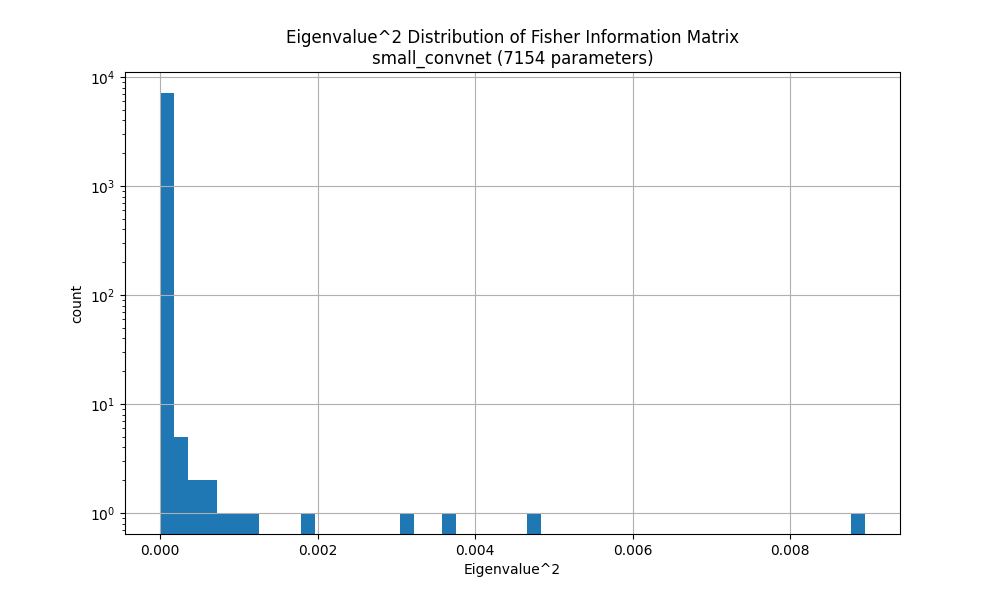
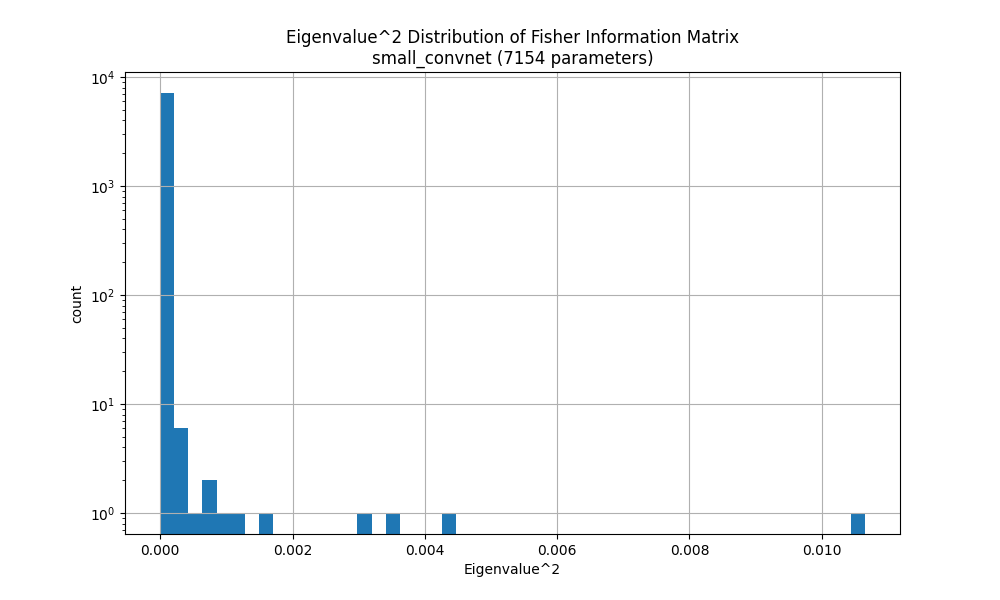
added random labels training. fixed negative eigenvalues bug.

diff --git a/model_interpretation/compare_eigenvalues.py b/model_interpretation/compare_eigenvalues.py
@@ -79,6 +79,9 @@ def compare_eigenvalue_distributions(models, save_dir=None):
     for model_name in models:
         try:
             eigenvalues, num_params = load_eigenvalues(model_name)
+            eigenvalues = np.abs(eigenvalues)
+            eigenvalues.sort()
+            eigenvalues = eigenvalues[::-1]  # Descending order
             all_eigenvalues.append(eigenvalues)
             all_param_counts.append(num_params)
             print(f"Loaded {len(eigenvalues)} eigenvalues for {model_name}")
@@ -89,32 +92,11 @@ def compare_eigenvalue_distributions(models, save_dir=None):
         print("No eigenvalues loaded. Exiting.")
         return
     
-    # Create plots comparing eigenvalues
-    
-    # 1. Histogram comparison
+    # Create eigenvalue spectrum plot
     plt.figure(figsize=(12, 8))
     for i, model_name in enumerate(models):
         if i < len(all_eigenvalues):
-            plt.hist(all_eigenvalues[i], bins=500, alpha=0.5, label=f"{model_name}")
-    
-    plt.title('Eigenvalue Distribution Comparison')
-    plt.xlabel('Eigenvalue')
-    plt.ylabel('Count')
-    plt.xscale('log')
-    plt.yscale('log')
-    plt.legend()
-    plt.grid(True)
-    
-    if save_dir:
-        plt.savefig(save_dir / 'eigenvalue_histogram_comparison.png')
-        print(f"Saved histogram to {save_dir / 'eigenvalue_histogram_comparison.png'}")
-    
-    # 2. Eigenvalue vs index plot
-    plt.figure(figsize=(12, 8))
-    for i, model_name in enumerate(models):
-        if i < len(all_eigenvalues):
-            sorted_evals = np.sort(all_eigenvalues[i])[::-1]  # Descending order
-            plt.plot(range(1, len(sorted_evals) + 1), sorted_evals, label=f"{model_name}")
+            plt.plot(range(1, len(all_eigenvalues[i]) + 1), all_eigenvalues[i], label=f"{model_name}")
     
     plt.title('Eigenvalue Spectrum')
     plt.xlabel('Eigenvalue Index')
@@ -127,9 +109,7 @@ def compare_eigenvalue_distributions(models, save_dir=None):
         plt.savefig(save_dir / 'eigenvalue_spectrum.png')
         print(f"Saved eigenvalue spectrum to {save_dir / 'eigenvalue_spectrum.png'}")
     
-    # Show all plots at once
-    if not save_dir:
-        plt.show()
+    plt.show()
 
 def print_eigenvalue_stats(models):
     """
@@ -159,10 +139,10 @@ def print_eigenvalue_stats(models):
 
 if __name__ == "__main__":
     # Models to compare
-    models = ['small_convnet', 'small_convnet_random_images']
+    models = ['small_convnet', 'small_convnet_random_images', 'small_convnet_random_labels']
     
-    # Compare eigenvalues - only plot, don't save
-    compare_eigenvalue_distributions(models)
+    # Compare eigenvalues - both save and show
+    compare_eigenvalue_distributions(models, save_dir='model_interpretation/outputs/eigenvalue_comparison')
     
     # Print statistics
     print_eigenvalue_stats(models) 

diff --git a/trainers/specific_trainers/small_convnet_random_labels.py b/trainers/specific_trainers/small_convnet_random_labels.py
@@ -1,0 +1,49 @@
+import torch
+import sys
+import os
+
+# Get the full path to the current file
+current_file_path = __file__
+current_filename = os.path.basename(__file__)
+model_name = current_filename[:-3]
+
+# Fix the import path correctly
+current_dir = os.path.dirname(os.path.abspath(__file__))
+project_root = os.path.abspath(os.path.join(current_dir, '..', '..'))
+sys.path.insert(0, project_root)
+
+from models.specific_models.SmallConvNet import SmallConvNet
+from trainers.generic_trainers.basic_trainer import BasicTrainer
+from utils.data_loader import MNISTDataLoader
+
+model = SmallConvNet()
+print("Number of parameters: ", model.get_num_parameters())
+
+# Create a custom data loader
+data_loader = MNISTDataLoader(
+    batch_size=64,
+    preload_gpu=torch.cuda.is_available(),
+    random_labels=True,
+    random_images=False,
+    random_seed=42,
+    num_train_samples=5000
+)
+
+def train_small_convnet_random_labels():
+    # Initialize the trainer with specific parameters
+    trainer = BasicTrainer(
+        model=model,
+        model_name=model_name,
+        learning_rate=1e-4,
+        num_epochs=1000,
+        device='cuda' if torch.cuda.is_available() else 'cpu',
+        data_loader=data_loader,
+        visualization=True
+    )
+    # Train the model
+    trainer.train()
+    
+    return trainer.get_history()
+
+if __name__ == "__main__":
+    train_small_convnet_random_labels() 
